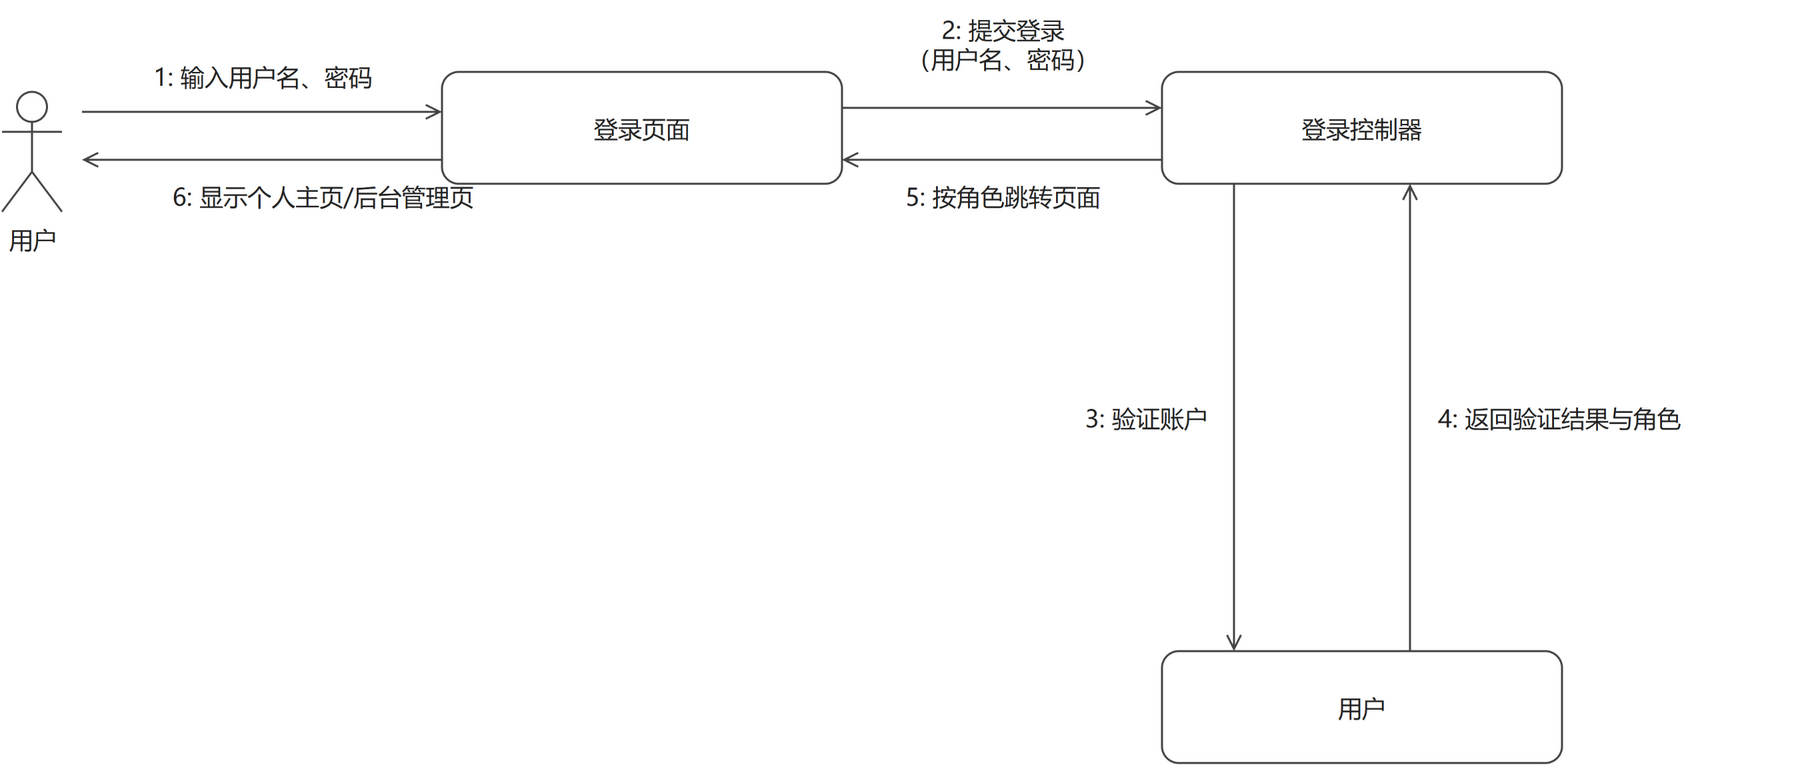
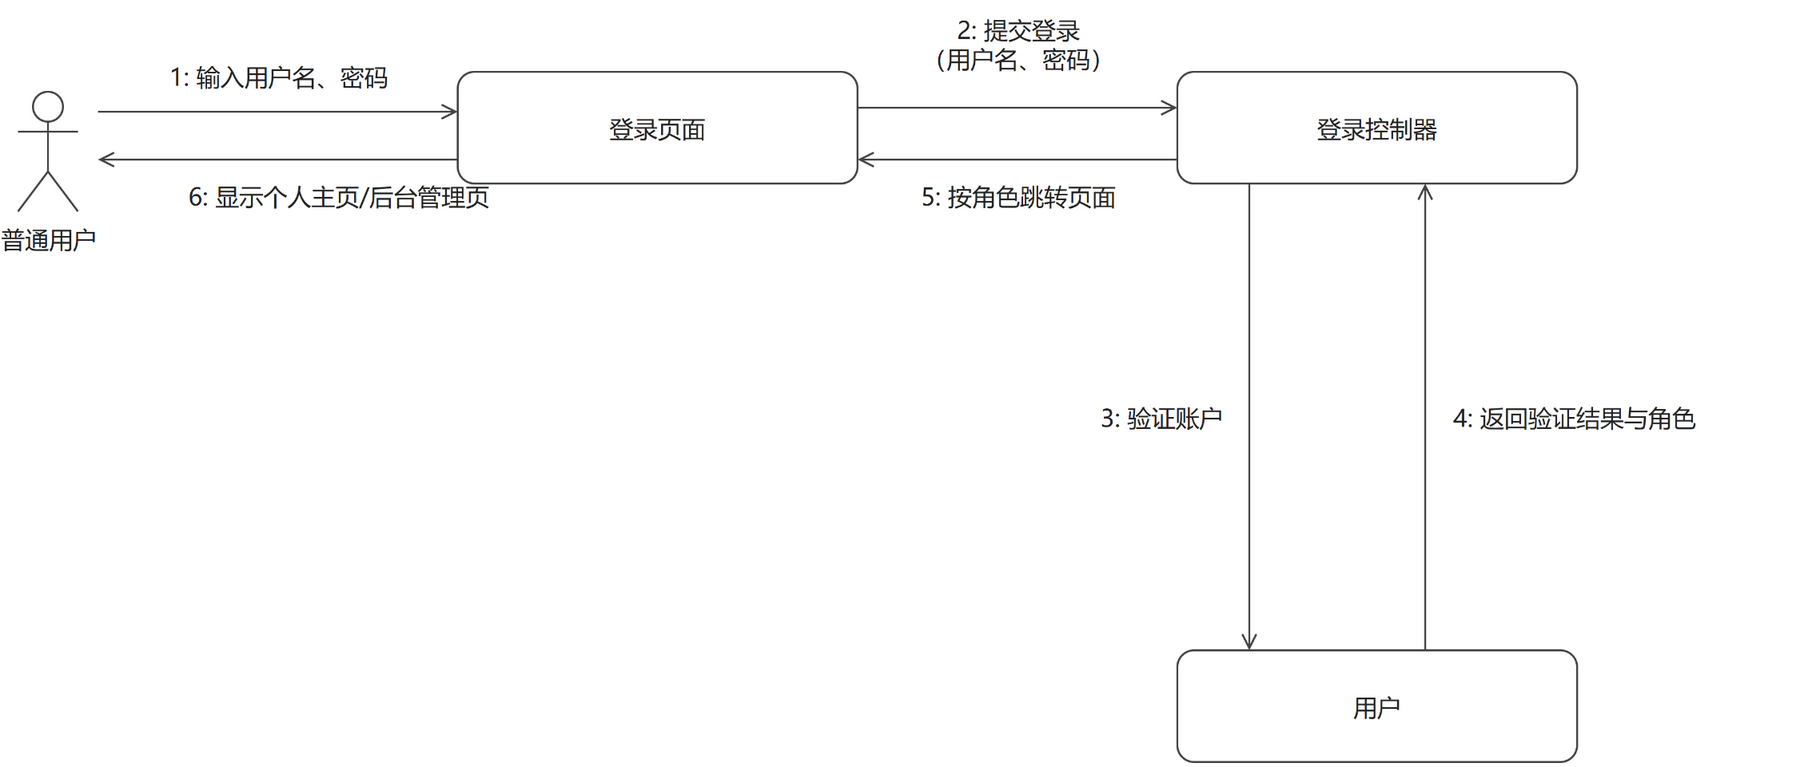
docs: 协作图参与者标注消歧（用户→普通用户）+ 绘图规范补类图三栏/协作图画法约定

diff --git a/docs/交付/1-账户管理-成员B/gen_login_diagrams.py b/docs/交付/1-账户管理-成员B/gen_login_diagrams.py
@@ -13,6 +13,8 @@
 - 协作图：对象框内不写冒号；每条消息一根独立带箭头直线，编号标签紧贴
   自己那根线（水平线标签在线上方、垂直线标签在线的侧方），两对象间
   双向消息画成上下/左右两条平行线，方向一目了然。
+- 协作图参与者标注 = 用例描述中的参与者名（如「普通用户」「访客」），
+  实体对象命名避开参与者名，避免同名歧义。
 - 类模型图：类框用三个独立矩形拼成"类名/属性/方法"三栏，不用 <hr>
   灰色分隔线；同一关联线上的所有文字（关联名 + 两端多重性）全部放在
   线的同一侧，水平线统一在上方、垂直线统一在右方。
@@ -201,18 +203,18 @@ cells += [
 save("用户登录_类模型图", cells, 800, 680)
 
 # ================= 4. 用户登录协作图 =================
-# 布局：用户(左) — 登录页面(中上) — 登录控制器(右上) — 用户实体(右下)
+# 布局：普通用户(左) — 登录页面(中上) — 登录控制器(右上) — 用户实体(右下)
 # 每条消息一根独立直线 + 紧贴该线的编号标签；双向消息画两条平行线。
 cells = [
-    vertex("actor", "用户", ACTOR, 60, 90, 30, 60),
+    vertex("actor", "普通用户", ACTOR, 60, 90, 30, 60),
     vertex("page", "登录页面", BOX, 280, 80, 200, 56),
     vertex("ctl", "登录控制器", BOX, 640, 80, 200, 56),
     vertex("user", "用户", BOX, 640, 370, 200, 56),
 
-    # 1: 用户 → 登录页面（上线，箭头向右，标签在线上方）
+    # 1: 普通用户 → 登录页面（上线，箭头向右，标签在线上方）
     seg("m1", 100, 100, 280, 100),
     vertex("m1_t", "1: 输入用户名、密码", TEXT, 100, 72, 180, 20),
-    # 6: 登录页面 → 用户（下线，箭头向左，标签在线下方）
+    # 6: 登录页面 → 普通用户（下线，箭头向左，标签在线下方）
     seg("m6", 280, 124, 100, 124),
     vertex("m6_t", "6: 显示个人主页/后台管理页", TEXT, 110, 132, 220, 20),
 

diff --git a/docs/交付/1-账户管理-成员B/用户登录.md b/docs/交付/1-账户管理-成员B/用户登录.md
@@ -46,7 +46,7 @@
 
 ![用户登录_协作图](images/用户登录_协作图.png)
 
-**图说明**：协作图展示用例执行过程中各对象的消息往来：参与者"用户"与三个对象（登录页面、登录控制器、用户实体）之间共 6 条消息，编号与用例基本流程一一对应：1 输入用户名、密码（基本流程第 2 步）→ 2 页面把登录请求提交给控制器 → 3 控制器请求"用户"对象验证账户、4 返回验证结果与角色（第 3 步）→ 5 控制器通知页面按角色跳转（第 4 步）→ 6 页面向用户显示个人主页或后台管理页。每对对象之间的双向消息画成两条平行线，各自带箭头标明方向；编号标签紧贴所属线段（水平线标签在线上方、垂直线标签在线侧方），消息与箭头一一对应，不会混淆。扩展流程的体现：当消息 4 返回"验证失败"时，控制器改为让页面提示错误并停留在登录页，消息 5、6 不发生。
+**图说明**：协作图展示用例执行过程中各对象的消息往来：参与者"用户"与三个对象（登录页面、登录控制器、用户实体）之间共 6 条消息，编号与用例基本流程一一对应：1 输入用户名、密码（基本流程第 2 步）→ 2 页面把登录请求提交给控制器 → 3 控制器请求用户对象验证账户、4 返回验证结果与角色（第 3 步）→ 5 控制器通知页面按角色跳转（第 4 步）→ 6 页面向普通用户显示个人主页或后台管理页。每对对象之间的双向消息画成两条平行线，各自带箭头标明方向；编号标签紧贴所属线段（水平线标签在线上方、垂直线标签在线侧方），消息与箭头一一对应，不会混淆。扩展流程的体现：当消息 4 返回"验证失败"时，控制器改为让页面提示错误并停留在登录页，消息 5、6 不发生。
 
 ---
 

diff --git a/docs/绘图规范.md b/docs/绘图规范.md
@@ -46,10 +46,14 @@
 - 异常/错误分支处理后必须拐回对应的步骤（如"返回输入"），形成回路。
 
 **类模型图（阶段 3 使用）**
-- 类 = 三栏矩形：类名 / 属性 / 方法；类间关系连线带箭头（关联、依赖、继承等）并标注多重性（如 1、0..*）。
+- 类 = 三栏矩形：类名 / 属性 / 方法，由三个独立矩形拼接（栏间共享黑边框），不用 `<hr>` 灰色分隔线；类间关系连线带箭头（关联、依赖、继承等）并标注多重性（如 1、0..*）。
+- 同一关联线上的所有文字（关联名 + 两端多重性）全部放在线的同一侧：水平线统一在上方、垂直线统一在右方。
 
 **协作图（阶段 3 使用）**
 - 对象 = 方框，消息 = 带序号的箭头，按用例执行顺序编号（1、2、3……）。
+- 对象框内不写冒号（写「登录页面」，不写「:登录页面」）。
+- 每条消息一根独立直线段（两端坐标固定，不吸附图元），编号标签紧贴自己那根线（水平线标签在线上方/下方，垂直线标签在线的侧方）；双向消息画成两条平行线，方向一目了然。
+- 参与者标注统一用用例描述中的参与者名（注册 = 访客，登录/评论 = 普通用户，类别管理 = 管理员）；实体对象命名避开参与者名，避免同名歧义（2026-09 修订）。
 
 ## 6. 交付与自检
 
